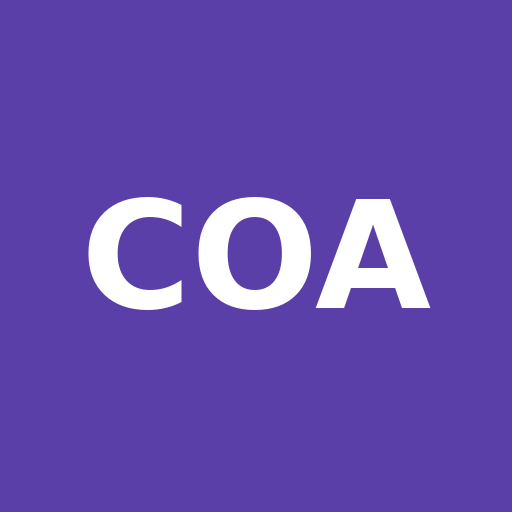
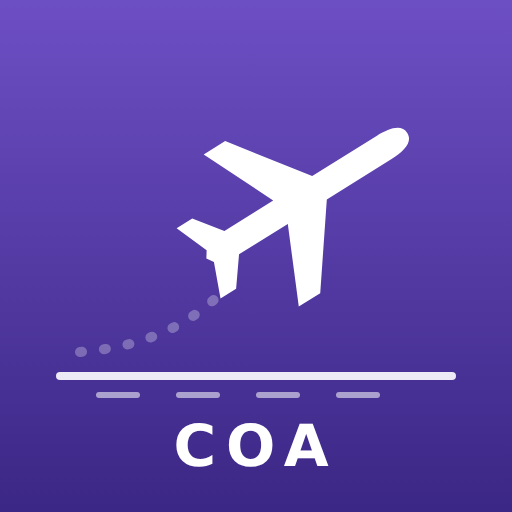
Nouvelle icône : avion qui décolle
Claude-Session: https://claude.ai/code/session_01EWbVG8G5W4zN9J2MoZPWQi

diff --git a/sw.js b/sw.js
@@ -1,7 +1,7 @@
 // Boîte à outils COA — copie hors connexion (réseau d'abord, copie du téléphone si pas de réseau).
 // Changer CACHE purge l'ancienne copie.
-const CACHE = 'coa-outils-v1';
-const FILES = ['./', 'index.html', 'airports.json', 'airlines.json', 'aircraft.json', 'manifest.json', 'icon-512.png'];
+const CACHE = 'coa-outils-v2';
+const FILES = ['./', 'index.html', 'airports.json', 'airlines.json', 'aircraft.json', 'manifest.json', 'icon-192.png', 'icon-512.png', 'apple-touch-icon.png'];
 self.addEventListener('install', e => { e.waitUntil(caches.open(CACHE).then(c => c.addAll(FILES)).then(() => self.skipWaiting())); });
 self.addEventListener('activate', e => { e.waitUntil(caches.keys().then(k => Promise.all(k.filter(x => x.startsWith('coa-outils') && x !== CACHE).map(x => caches.delete(x)))).then(() => self.clients.claim())); });
 self.addEventListener('fetch', e => {

diff --git a/index.html b/index.html
@@ -5,8 +5,8 @@
 <meta name="viewport" content="width=device-width, initial-scale=1">
 <title>Boîte à outils COA</title>
 <link rel="manifest" href="manifest.json">
-<link rel="apple-touch-icon" href="icon-512.png">
-<link rel="icon" href="icon-512.png">
+<link rel="apple-touch-icon" href="apple-touch-icon.png?v=2">
+<link rel="icon" href="icon-192.png?v=2">
 <meta name="apple-mobile-web-app-capable" content="yes">
 <meta name="apple-mobile-web-app-title" content="Outils COA">
 <meta name="theme-color" content="#5b3fa8">

diff --git a/CLAUDE.md b/CLAUDE.md
@@ -15,7 +15,8 @@ L'utilisateur échange en français.
 - `airports.json` (OurAirports, domaine public : IATA, OACI, nom, ville, pays, type L/M/S, vols réguliers),
   `airlines.json`, `aircraft.json` (OpenFlights, ODbL, plus mis à jour). Un enregistrement par ligne.
 - `sw.js` — hors connexion, réseau d'abord puis copie ; caches `coa-outils-*` ; changer `CACHE` à chaque mise en ligne
-  qui ajoute un fichier. `manifest.json`, `icon-512.png`.
+  qui ajoute un fichier. `manifest.json`, icônes `icon-192.png`, `icon-512.png`, `apple-touch-icon.png` (avion qui décolle
+  au-dessus d'une piste + « COA », fond violet ; demandé le 20 nov. 2026 ; `?v=2` dans les liens, à changer si l'icône change).
 
 ## À faire
 - MUA : en attente du PDF de l'utilisateur → extraire le texte par chapitres, consultable par la recherche
